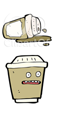
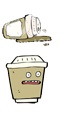
extra animation is added to falling coffees. Coffee pic fixed. About Page added.

Changed region(s): [[0.0312, 0.0938, 0.8125, 0.375], [0.0625, 0.4062, 0.7812, 0.8125]]

diff --git a/src/Option/LayerOptionMenu.js b/src/Option/LayerOptionMenu.js
@@ -18,15 +18,24 @@ var LayerOptionMenu = cc.Layer.extend({
         this.addChild(this._optionComponentsBatch);
 
         // buttons
-         var btn_incMusicNormal = cc.Sprite.createWithSpriteFrameName(btn_increaseVolume);
-         var btn_incMusicSelected = cc.Sprite.createWithSpriteFrameName(btn_increaseVolume_sel);
-         var btn_decMusicNormal = cc.Sprite.createWithSpriteFrameName(btn_decreaseVolume);
-         var btn_decMusicSelected = cc.Sprite.createWithSpriteFrameName(btn_decreaseVolume_sel);
+        var btn_incMusicNormal = cc.Sprite.createWithSpriteFrameName(btn_increaseVolume_sel);
+        var btn_incMusicSelected = cc.Sprite.createWithSpriteFrameName(btn_increaseVolume_sel);
+        var btn_decMusicNormal = cc.Sprite.createWithSpriteFrameName(btn_decreaseVolume_sel);
+        var btn_decMusicSelected = cc.Sprite.createWithSpriteFrameName(btn_decreaseVolume_sel);
 
-         var btn_incSoundEffectNormal = cc.Sprite.createWithSpriteFrameName(btn_increaseVolume);
-         var btn_incSoundEffectSelected = cc.Sprite.createWithSpriteFrameName(btn_increaseVolume_sel);
-         var btn_decSoundEffectNormal = cc.Sprite.createWithSpriteFrameName(btn_decreaseVolume);
-         var btn_decSoundEffectSelected = cc.Sprite.createWithSpriteFrameName(btn_decreaseVolume_sel);
+        var btn_incSoundEffectNormal = cc.Sprite.createWithSpriteFrameName(btn_increaseVolume_sel);
+        var btn_incSoundEffectSelected = cc.Sprite.createWithSpriteFrameName(btn_increaseVolume_sel);
+        var btn_decSoundEffectNormal = cc.Sprite.createWithSpriteFrameName(btn_decreaseVolume_sel);
+        var btn_decSoundEffectSelected = cc.Sprite.createWithSpriteFrameName(btn_decreaseVolume_sel);
+
+        var backNormal = cc.Sprite.create(btn_back, cc.rect(160, 0, 155, 75));
+        var backSelected = cc.Sprite.create(btn_back, cc.rect(160, 80, 155, 75));
+        var backDisabled = cc.Sprite.create(btn_back, cc.rect(126, 33 * 2, 126, 33));
+
+        var back = cc.MenuItemSprite.create(backNormal, backSelected, backDisabled, this.onBack, this);
+
+        var backMenu = cc.Menu.create(back);
+
 
         // sliders for music and sound effect control
         cc.log("Creating sliders");
@@ -42,14 +51,14 @@ var LayerOptionMenu = cc.Layer.extend({
         slider_music.setEnabled(true);
         this.addChild(slider_music, 2);
 
-/*
-        var slider_soundeffect = cc.Sprite.createWithSpriteFrameName(slider_volume_png);
-        var pin_soundeffect = cc.Sprite.createWithSpriteFrameName(pin_volume_png);
-        var slider_soundeffect = cc.ControlSlider.initWithSprites(bg_music, bg_music, pin_music);
-        // var slider_soundeffect = cc.ControlSlider.create(bg_music, bg_music, pin_music);
-        slider_soundeffect.setPosition(winSize.width / 2, winSize.height / 3);
-        this.addChild(slider_soundeffect, 3);
-*/
+        /*
+         var slider_soundeffect = cc.Sprite.createWithSpriteFrameName(slider_volume_png);
+         var pin_soundeffect = cc.Sprite.createWithSpriteFrameName(pin_volume_png);
+         var slider_soundeffect = cc.ControlSlider.initWithSprites(bg_music, bg_music, pin_music);
+         // var slider_soundeffect = cc.ControlSlider.create(bg_music, bg_music, pin_music);
+         slider_soundeffect.setPosition(winSize.width / 2, winSize.height / 3);
+         this.addChild(slider_soundeffect, 3);
+         */
         // put buttons as clickable menu
         var incMusic = cc.MenuItemSprite.create(btn_incMusicNormal, btn_incMusicSelected, this.onMusicIncrease, this);
         var decMusic = cc.MenuItemSprite.create(btn_decMusicNormal, btn_decMusicSelected, this.onMusicDecrease, this);
@@ -63,6 +72,10 @@ var LayerOptionMenu = cc.Layer.extend({
         var SoundEffectControl = cc.Menu.create(decSoundEffect, incSoundEffect);
         SoundEffectControl.alignItemsHorizontallyWithPadding(winSize.width / 2);
         SoundEffectControl.setPosition(winSize.width / 2, winSize.height / 3);
+
+        backMenu.alignItemsHorizontallyWithPadding(90);
+        backMenu.setPosition(500, 85);
+        this.addChild(backMenu, 1);
 
         this.addChild(MusicControl, 0);
         this.addChild(SoundEffectControl, 1);
@@ -88,6 +101,11 @@ var LayerOptionMenu = cc.Layer.extend({
     onSoundEffectDecrease:function (pSender) {
         gSharedEngine.setEffectsVolume(gSharedEngine.getEffectsVolume()-0.1);
         cc.log("Current effect volume: " + gSharedEngine.getEffectsVolume());
+    },
+    onBack:function(){
+        cc.log("Back to the main page");
+        var scene = new SceneMain();
+        cc.Director.getInstance().replaceScene(cc.TransitionSlideInT.create(0.4, scene));
     }
 
 

diff --git a/src/Game/LayerGameCoffee.js b/src/Game/LayerGameCoffee.js
@@ -13,7 +13,9 @@ var LayerGameCoffee = cc.Layer.extend({
     init:function(){
         this._size = cc.Director.getInstance().getWinSize();
         cc.SpriteFrameCache.getInstance().addSpriteFrames(coffee_plist);
+        Coffee.scaleAnimation();
         this.schedule(this.spawnCoffee, 3);
+
 
         // top left coffee logo
         //var coffeeLogo = Coffee.getOrCreateDoctor(DoctorType[0]);

diff --git a/src/Game/Coffee.js b/src/Game/Coffee.js
@@ -111,3 +111,11 @@ Coffee.create = function () {
     PvZ.CONTAINER.COFFEE.push(coffee);
     return coffee;
 };
+
+//Coffee Animation
+Coffee.scaleAnimation = function () {
+    var1 = this.Coffee.runAction(cc.ScaleTo.create(1.5,1.2,0.8));
+    this.schedule(this.var1, 1.5);
+    var2 = this.Coffee.runAction(cc.ScaleTo.create(1.5,0.8,1.2));
+    this.schedule(this.var2, 1.5);
+};

diff --git a/PvZ-Html5.js b/PvZ-Html5.js
@@ -61,7 +61,7 @@ var PvZ = PvZ || {};
             'src/Main/LayerMainMenu.js',
             'src/Main/SceneMain.js',
             'src/Main/SceneGameOver.js',
-            'src/Option/LayerOptionBg.js',
+            'src/Option/LayerAboutBg.js',
             'src/Option/LayerOptionMenu.js',
             'src/Option/SceneOption.js'
         ]

diff --git a/src/Main/LayerMainMenu.js b/src/Main/LayerMainMenu.js
@@ -59,7 +59,9 @@ var LayerMainMenu = cc.Layer.extend({
     onAbout:function (pSender) {
         cc.log("About");
         this.onButtonEffect();
-        // TODO: Go to about scene
+        var aboutScene = new SceneAbout();
+        cc.Director.getInstance().replaceScene(cc.TransitionSlideInT.create(0.4, aboutScene));
+
     }
 
 

diff --git a/cocos2d.js b/cocos2d.js
@@ -56,7 +56,7 @@
             'src/Main/LayerMainMenu.js',
             'src/Main/SceneMain.js',
             'src/Main/SceneGameOver.js',
-            'src/Option/LayerOptionBg.js',
+            'src/Option/LayerAboutBg.js',
             'src/Option/LayerOptionMenu.js',
             'src/Option/SceneOption.js'
         ]

diff --git a/PvZ-jsb.js b/PvZ-jsb.js
@@ -44,7 +44,7 @@ var appFiles = [
     'src/Main/LayerMainBg.js',
     'src/Main/LayerMainMenu.js',
     'src/Main/SceneMain.js',
-    'src/Option/LayerOptionBg.js',
+    'src/Option/LayerAboutBg.js',
     'src/Option/LayerOptionMenu.js',
     'src/Option/SceneOption.js',
     'src/config/Level.js',
